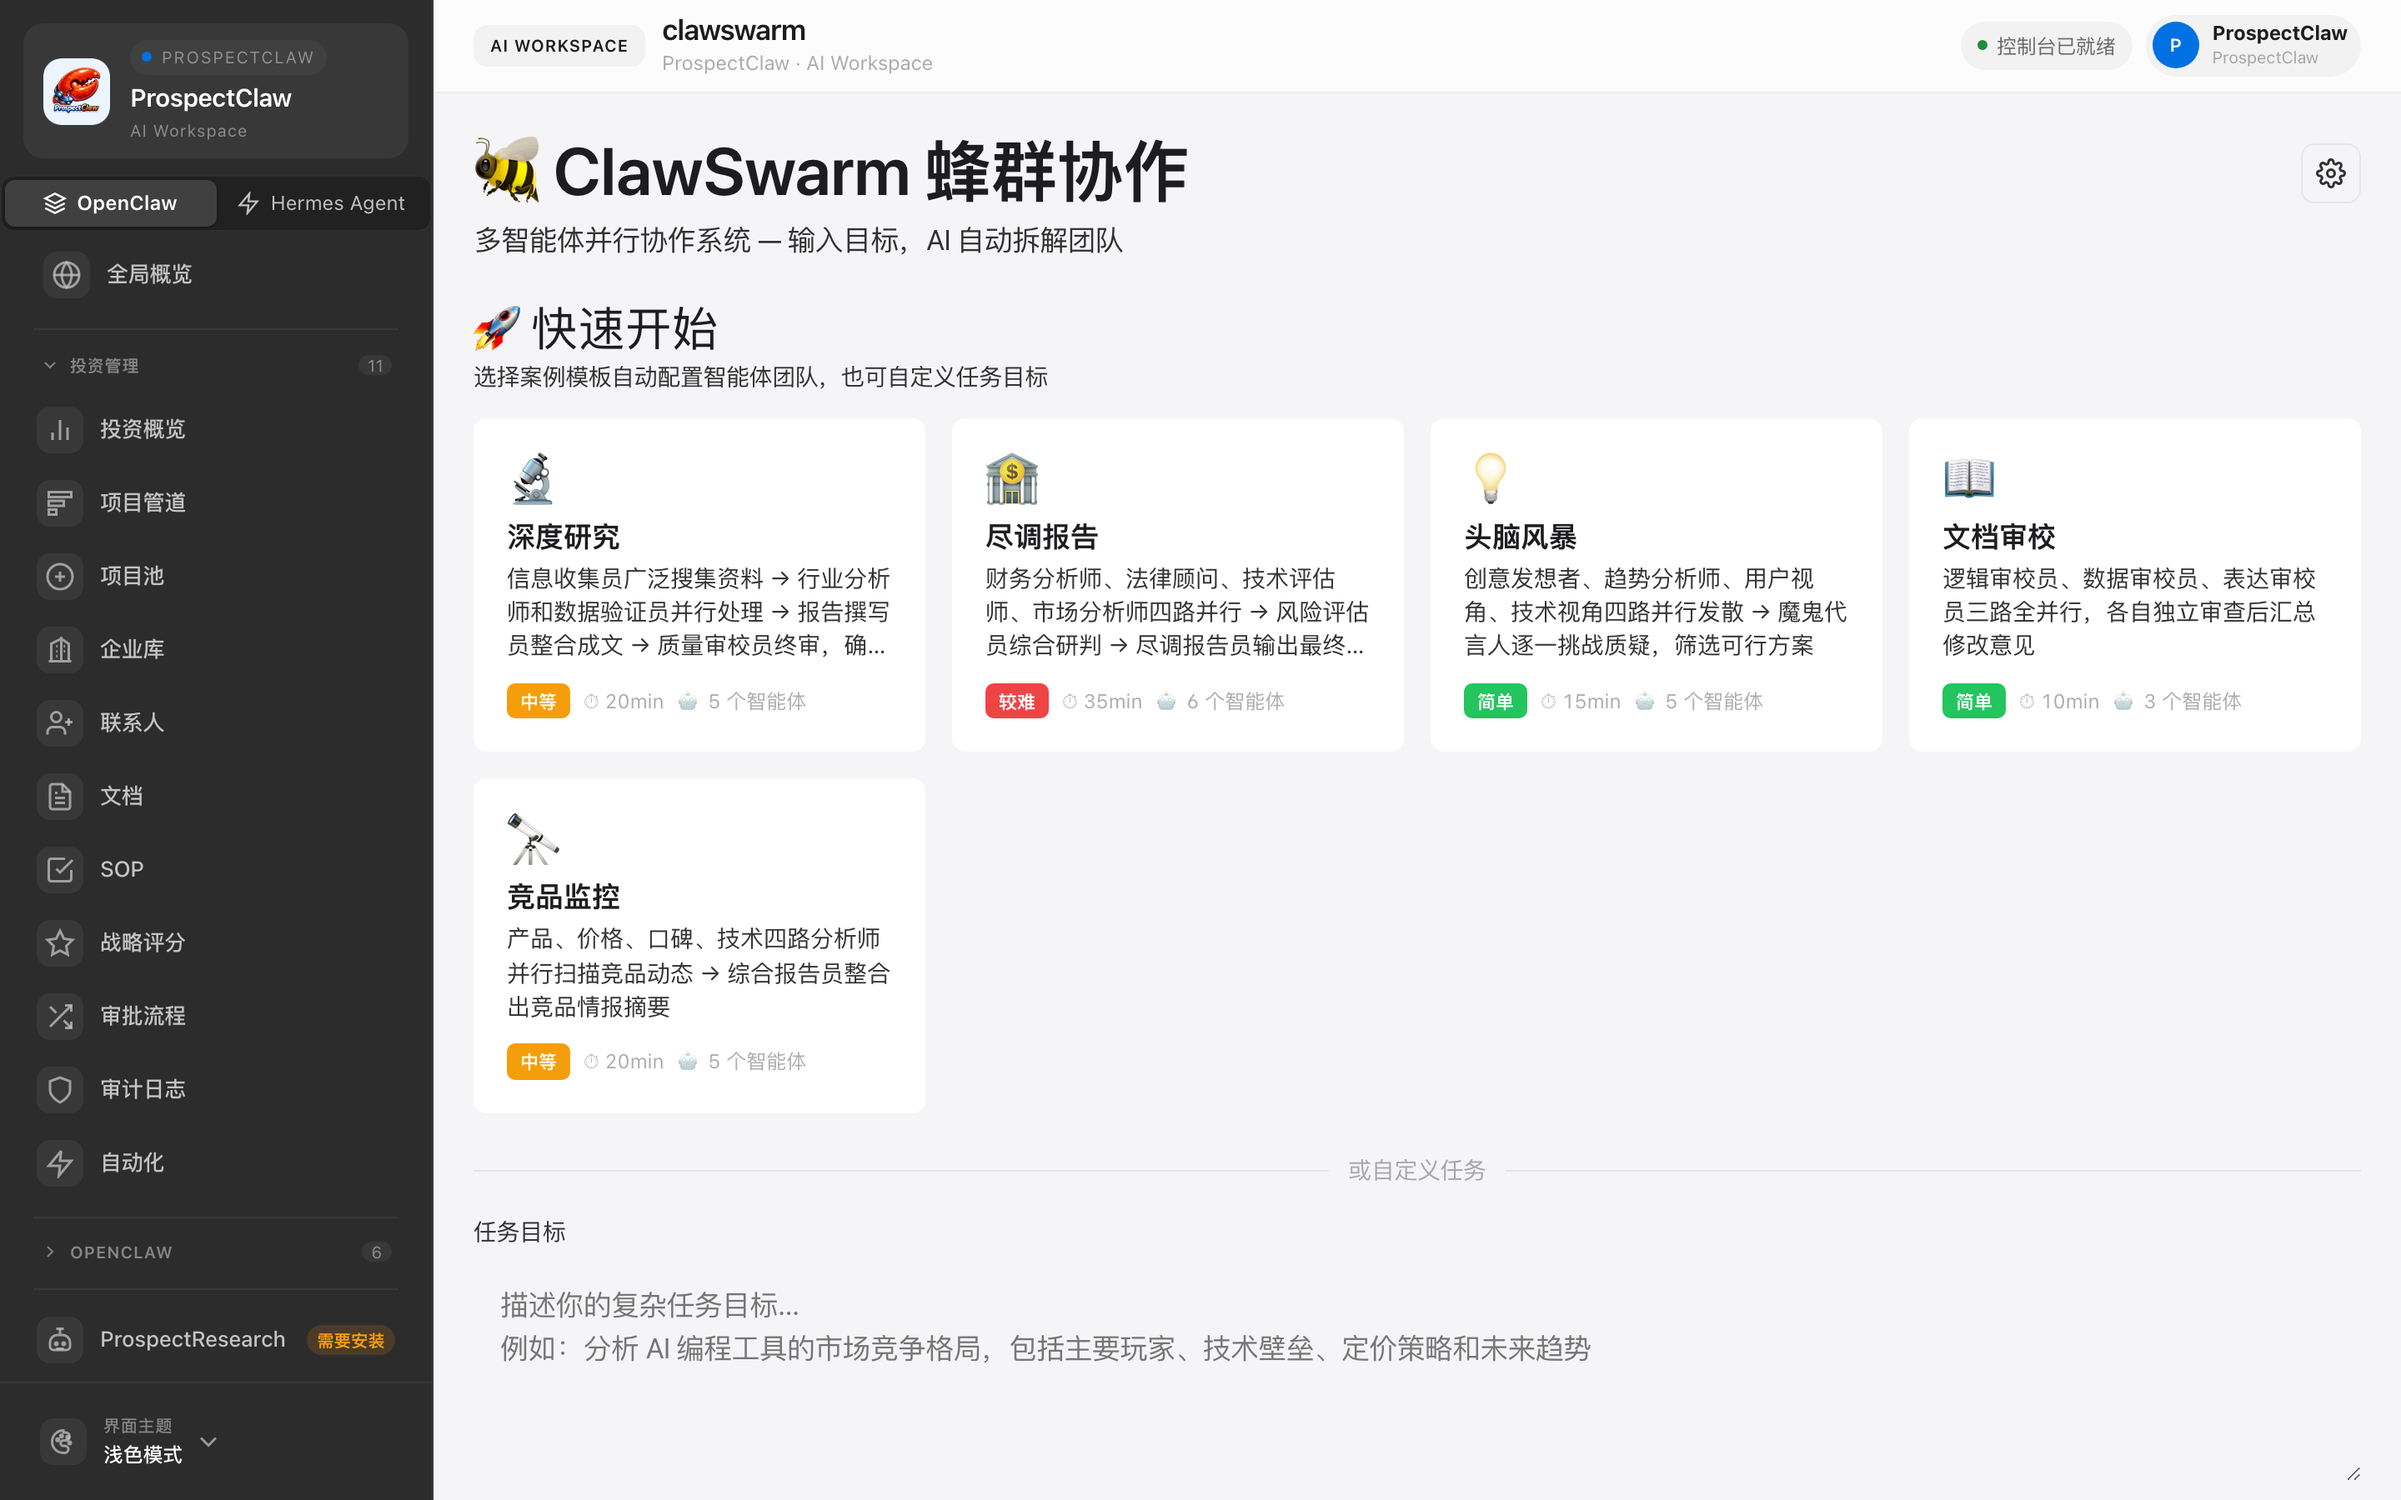
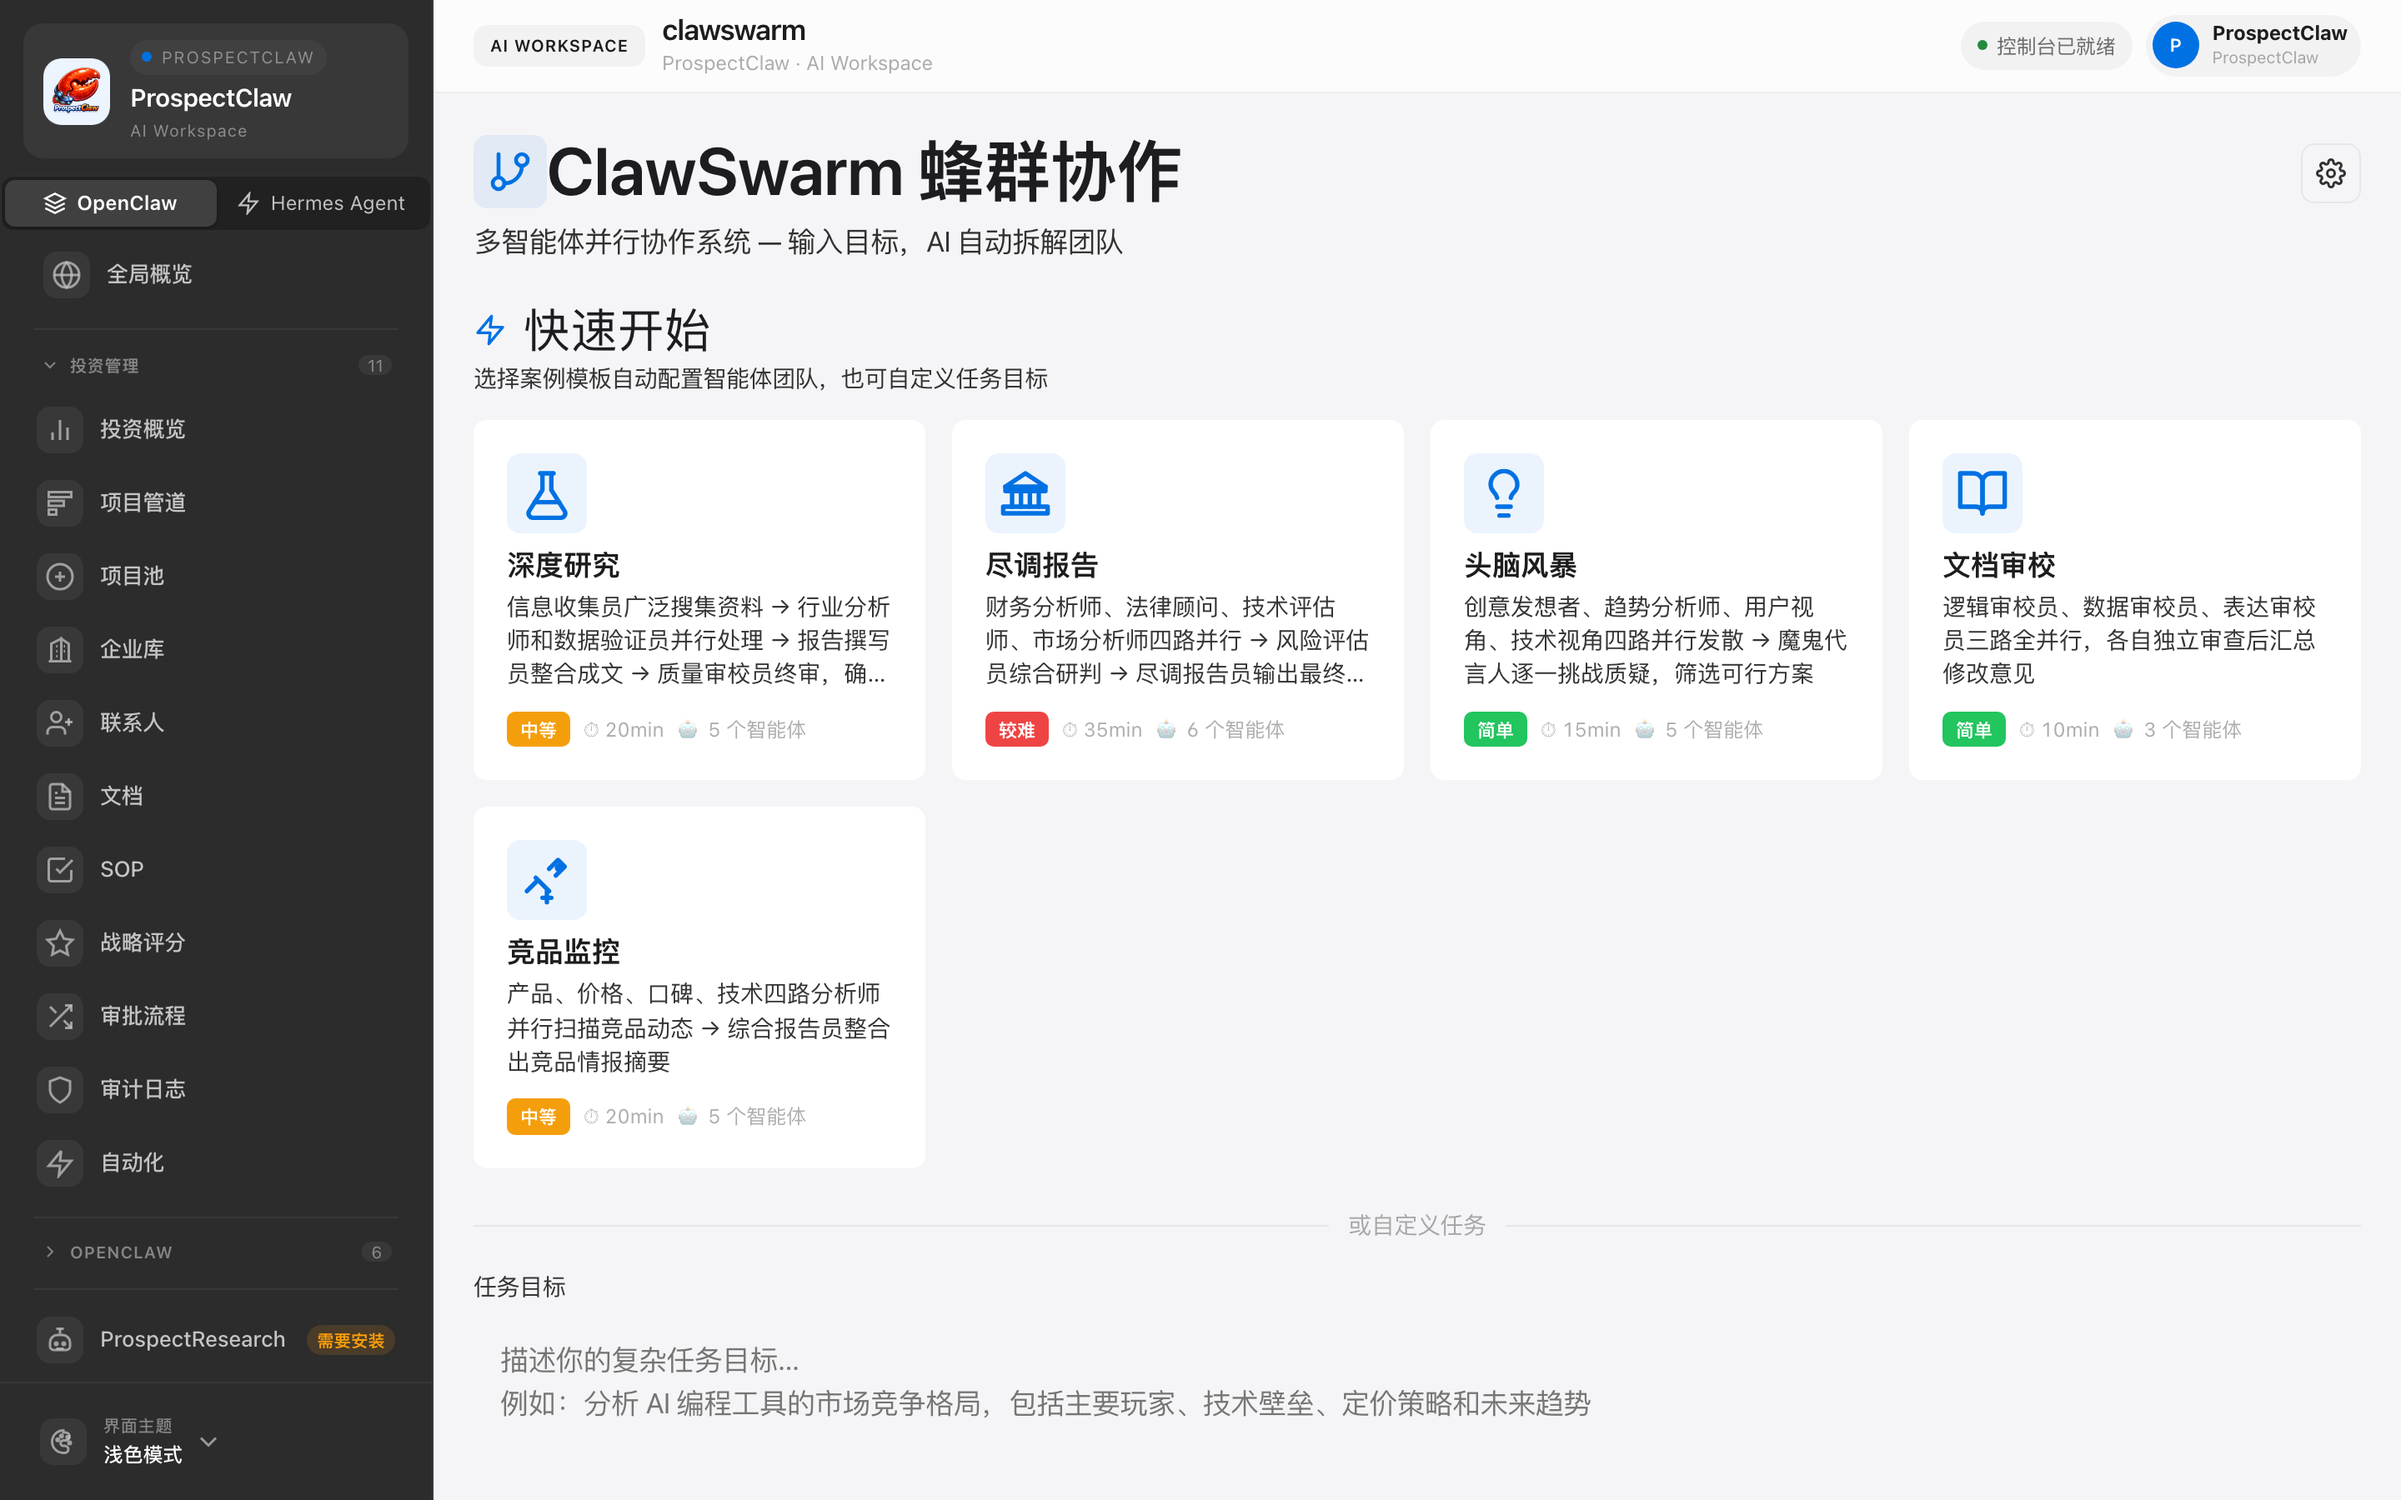
feat(branding): 钳子助手 → 钳子医生 + 10 张重截 Apple UI 截图
- index.html + i18n(zh-CN/en/ja):「钳子助手/Claw Assistant」→「钳子医生/Claw Doctor」
- 10 张桌面截图重截(主仓 v1.4.4 Phase H emoji → SVG 后的视觉):
  overview(6 卡 activity icon)、clawswarm(模板 5 卡全 SVG:烧瓶/银行/灯泡/书/望远镜)、
  dashboard(渠道 chip SVG)、claw-assistant(侧边栏心电曲线 + mock 对话)、
  investment-dashboard、skills、scoring、services、sessions-multi-agent、automation

面板内 portal.html 已在主仓库 commit 同步。

diff --git a/index.html b/index.html
@@ -112,20 +112,20 @@
     <!-- AI 助手 -->
     <div class="showcase-row reveal">
       <div class="showcase-text">
-        <div class="showcase-label" data-i18n="ai.assistant_label">Claw Assistant</div>
-        <h3 class="showcase-title" data-i18n="ai.assistant_title">钳子助手 — 内置 AI 对话引擎</h3>
+        <div class="showcase-label" data-i18n="ai.assistant_label">Claw Doctor</div>
+        <h3 class="showcase-title" data-i18n="ai.assistant_title">钳子医生 — 内置 AI 对话引擎</h3>
         <p class="showcase-desc" data-i18n="ai.assistant_desc">
           流式响应、Markdown 渲染、多会话管理。支持多模型切换，可用于行业分析、知识问答、代码辅助、系统诊断等任意场景。
         </p>
         <div class="showcase-chips">
-          <span class="chip" data-i18n="ai.assistant_chip1">钳子助手</span>
+          <span class="chip" data-i18n="ai.assistant_chip1">钳子医生</span>
           <span class="chip" data-i18n="ai.assistant_chip2">AI 诊断</span>
           <span class="chip" data-i18n="ai.assistant_chip3">智能分析</span>
           <span class="chip" data-i18n="ai.assistant_chip4">多会话</span>
         </div>
       </div>
       <div class="showcase-image" data-lightbox>
-        <img src="/screenshots/desktop-claw-assistant.png" alt="钳子助手">
+        <img src="/screenshots/desktop-claw-assistant.png" alt="钳子医生">
       </div>
     </div>
 
@@ -408,7 +408,7 @@
       <a href="/agent-guide.html" class="doc-card reveal stagger-3">
         <div class="doc-card-icon">🤖</div>
         <h3 class="doc-card-title" data-i18n="docs.agent_title">Agent 知识库</h3>
-        <p class="doc-card-desc" data-i18n="docs.agent_desc">复制全文丢给 AI 就行。产品架构、排障决策树、完整 FAQ，让钳子助手或 ChatGPT 能回答关于 ProspectClaw 的问题。</p>
+        <p class="doc-card-desc" data-i18n="docs.agent_desc">复制全文丢给 AI 就行。产品架构、排障决策树、完整 FAQ，让钳子医生或 ChatGPT 能回答关于 ProspectClaw 的问题。</p>
         <span class="doc-card-link" data-i18n="docs.read_guide">阅读指南 →</span>
       </a>
     </div>
